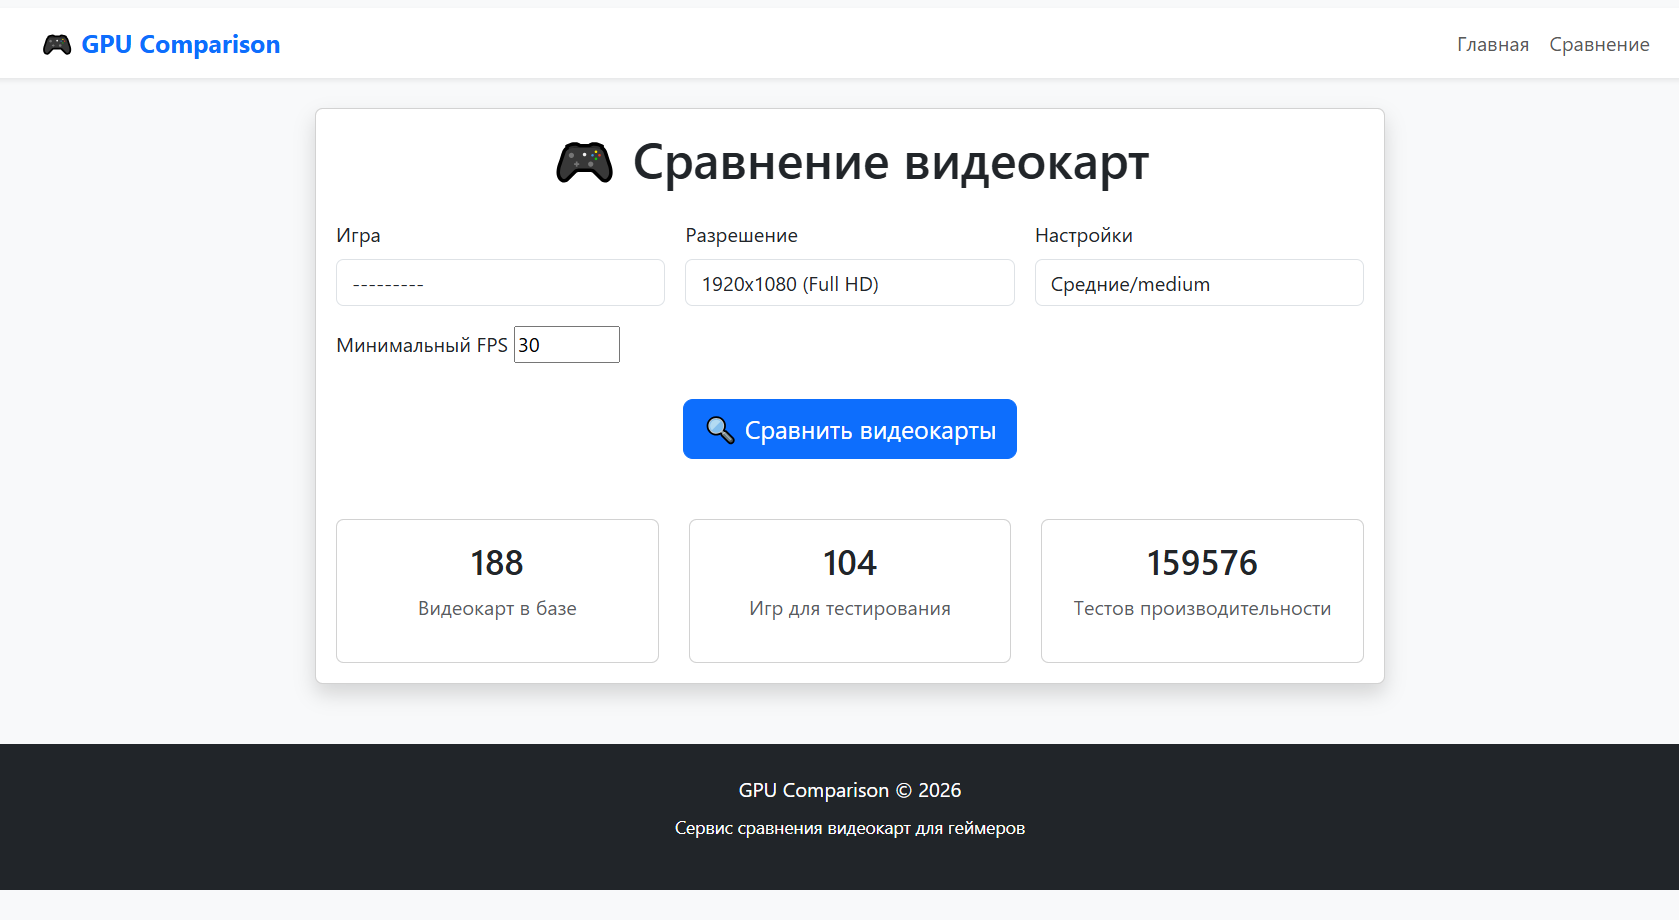
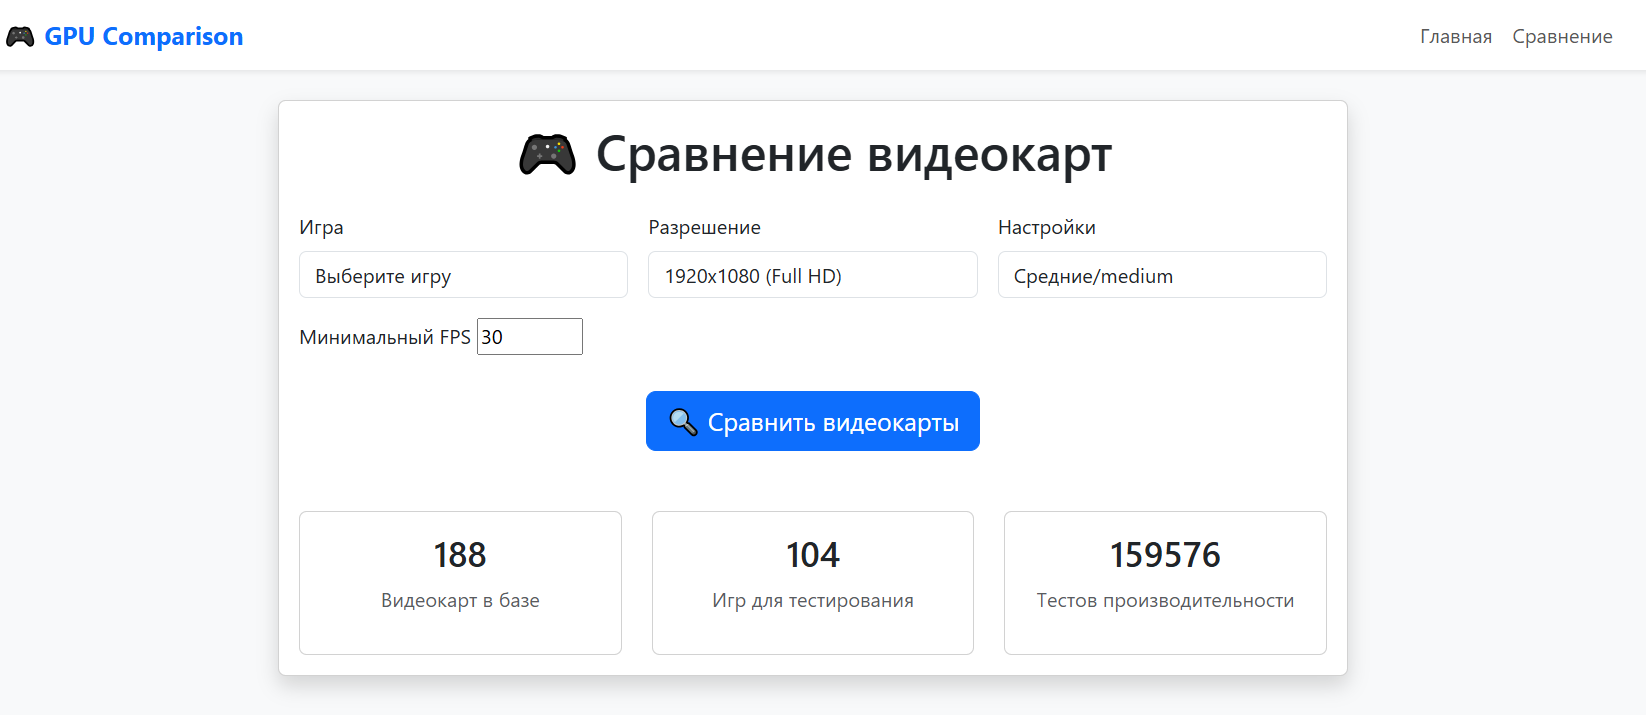
Last version of TZ.md

diff --git a/TZ.md b/TZ.md
@@ -33,7 +33,7 @@
 
 * **Сценарий 1: Сравнение видеокарт для конкретной игры**
   - Пользователь выбирает игру из списка, разрешение экрана, настройки графики и минимальный fps, который он хочет видеть в игре 
-  - Система отображает таблицу с видеокартами из алгоритма рекомендаций и их производительностью (FPS), ценой в рублях и FPS на 1000 рублей
+  - Система отображает таблицу с видеокартами из алгоритма рекомендаций и их видеопамять в гигабайтах, производительностью (FPS), ценой в рублях и FPS на 1000 рублей
   - Генерируются интерактивные графики для топ 5 лучших видеокарт в каждой категории из алгоритма рекомендаций
 
 * **Сценарий 2: Аналитическая обработка данных**
@@ -89,6 +89,7 @@ https://www.kaggle.com/datasets/baraazaid/gpus-fps-on-games?resource=download
 9. Отмена сценария фильтрация и сортировка видеокарт
 10. Отмена столбчатых диаграмм
 11. Уточнение вида Plotly графиков (1 сценарий)
+12. Добавление показа кол-ва Гигабайт видеопамяти видеокарт
 ---
 
 ## 8. Скриншоты макетов
@@ -98,4 +99,4 @@ https://www.kaggle.com/datasets/baraazaid/gpus-fps-on-games?resource=download
 ![img.png](previewScreenshots/compare_result.png)
 ---
 
-*Последнее обновление: 19.01.26 1:56
+*Последнее обновление: 20.01.26 1:38
